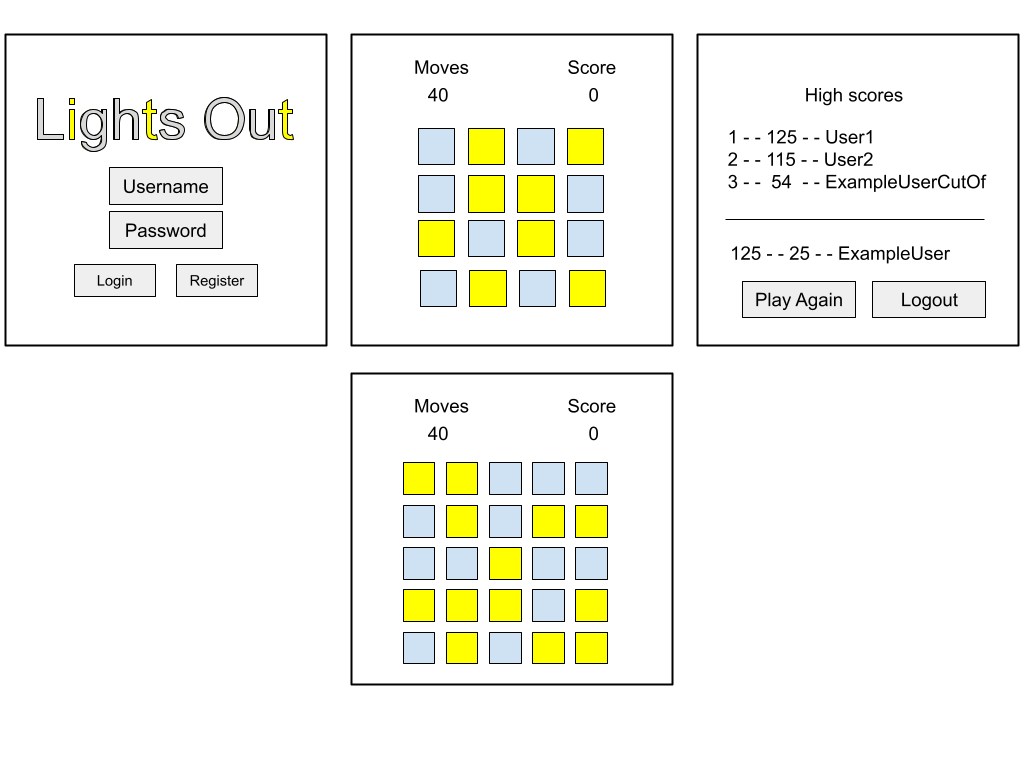
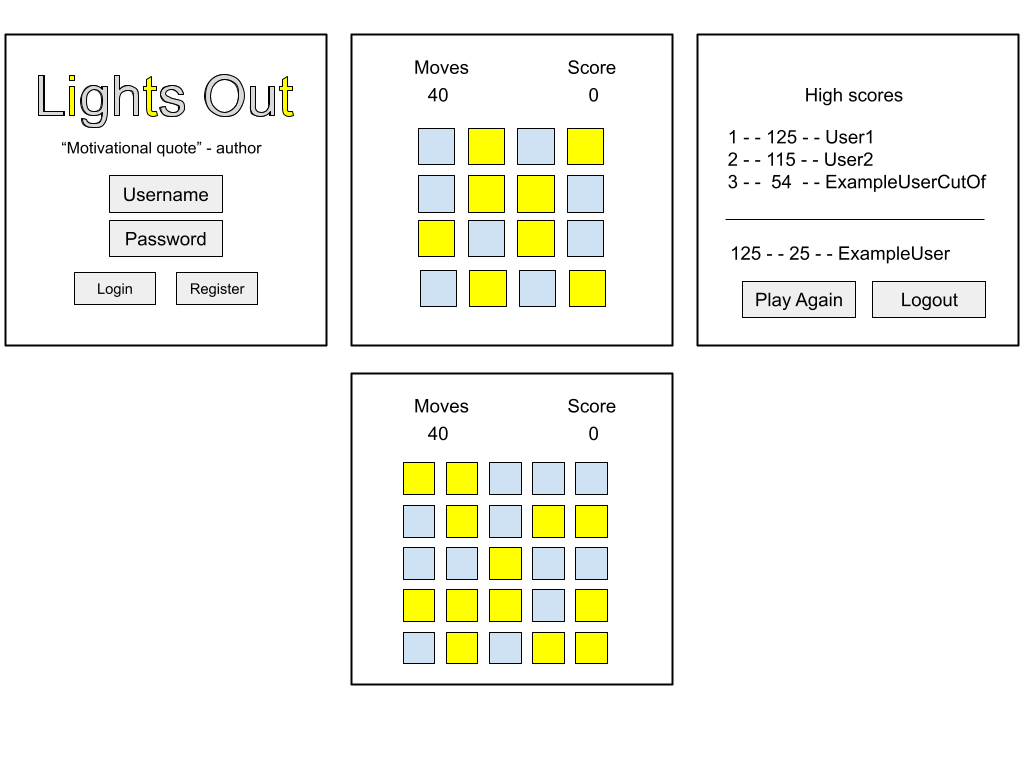
Updated Readme and designDiagram.png

Changed region(s): [[0.0312, 0.0938, 0.2812, 0.4062]]

diff --git a/README.md b/README.md
@@ -17,19 +17,19 @@ This will be a simple tribute to the 1995 puzzle game Lights out. It the game yo
 
 For this deliverable I did the following. I checked the box `[x]` and added a description for things I completed.
 
-- [ ] Proper use of Markdown
+- [x] Proper use of Markdown
 - [x] A concise and compelling elevator pitch
-- [ ] Description of key features
-- [ ] Description of how you will use each technology
-- [ ] One or more rough sketches of your application. Images must be embedded in this file using Markdown image references.
+- [x] Description of key features
+- [x] Description of how you will use each technology
+- [x] One or more rough sketches of your application. Images must be embedded in this file using Markdown image references.
 
 ### Elevator pitch
 
-Do you ever get tired of all the new games with all there bells and wistles? Do you ever just want to go back to the basics? Well Lights Out Evelution is just what you need. Lights Out Evelution is a simple throwback to the 1995 electronic puzzle game. You get the familiarity of the original game with a all new and improved progressive game. You can challenge your friends and climb the leaderboard.
+Do you ever get tired of all the new games with all their bells and wistles? Do you ever just want to go back to the basics? Well Lights Out Evelution is just what you need. Lights Out Evelution is a simple throwback to the 1995 electronic puzzle game. You get the familiarity of the original game with a all new and improved progressive game. You can challenge your friends and climb the leaderboard.
 
 ### Design
 
-![Design image](placeholder.png)
+![Design image](designDiagram.png)
 
 Lorem ipsum dolor sit amet, consectetur adipiscing elit, sed do eiusmod tempor incididunt ut labore et dolore magna aliqua. Ut enim ad minim veniam, quis nostrud exercitation ullamco laboris nisi ut aliquip ex ea commodo consequat. Duis aute irure dolor in reprehenderit in voluptate velit esse cillum dolore eu fugiat nulla pariatur. Excepteur sint occaecat cupidatat non proident, sunt in culpa qui officia deserunt mollit anim id est laborum.
 
@@ -42,20 +42,22 @@ sequenceDiagram
 
 ### Key features
 
-- Describe your key feature
-- Describe your key feature
-- Describe your key feature
+- Login, register
+- Play by clicking on squares, colors change for itself and adjacent squares
+- Receive notifications/updates for other player's scores.
+- Look at highscores and rank
+- Play again or logout
 
 ### Technologies
 
 I am going to use the required technologies in the following ways.
 
-- **HTML** - Uses HTML to display four different pages. These pages include a login/register page, a gameplay page and a page for the leaderboard.
-- **CSS** - Description here
-- **React** - Description here
-- **Service** - Description here
-- **DB/Login** - Description here
-- **WebSocket** - Description here
+- **HTML** - Displays four different pages. These pages include a login/register page, a gameplay page and a page for the leaderboard.
+- **CSS** - Transitions from level to level. Button pressing.
+- **React** - Login/register , advancement through the game, play again
+- **Service** - Endpoints for user authentication, scores and rank. Third party service to display motivational quotes on the home page.
+- **DB/Login** - Stores scores/rank and userdata. 
+- **WebSocket** - Broadcast users score along with name and current rank.
 
 ## 🚀 AWS deliverable
 
